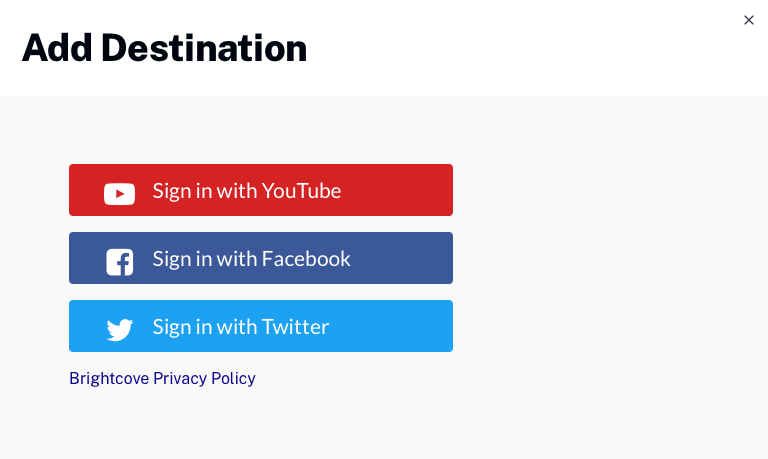
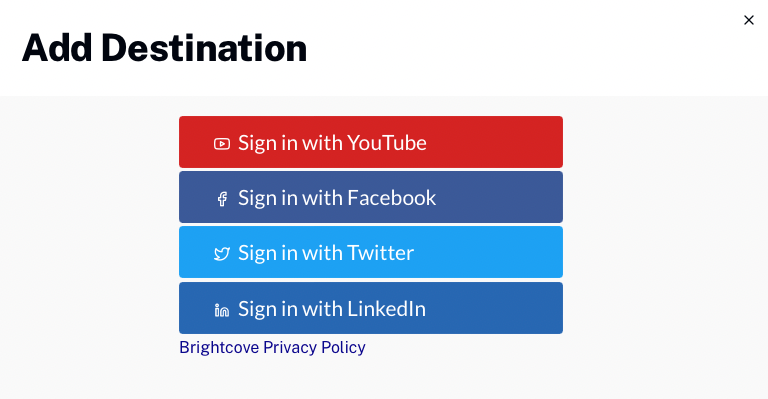
training folder work

Changed region(s): [[0.0625, 0.2707, 0.75, 0.9023], [0.0312, 0.0602, 0.4062, 0.1504], [0.9688, 0.0301, 1.0, 0.0602]]

diff --git a/_site/social/publishing-videos-social-media-platforms.html b/_site/social/publishing-videos-social-media-platforms.html
@@ -1696,8 +1696,7 @@ function doGTranslate(lang_pair) {if(lang_pair.value)lang_pair=lang_pair.value;i
 <article class="bcls-article">
   <h1>Publishing Videos to Social Media Platforms</h1>
   <summary>In this topic you will learn how to publish videos to social media using Brightcove Social.</summary>
-  <section class="bcls-section">
-    
+  <section class="bcls-section"> 
     <p>Brightcove Social allows you to easily publish videos in your Beacon account out to YouTube, Facebook and Twitter. Before you can publish videos, you must create publishing destinations for the social accounts you wish to publish videos to. For information on creating publishing destinations, see <a href="/social/creating-social-media-publishing-destinations.html">Creating Social Media Publishing Destinations</a>.</p>
     <p>Note that using Auto Sync and manually publishing videos using the Social module are independent operations. Auto Sync is not aware of which videos have been manually published using the Social module. If a video is tagged in a way that causes Auto Sync to publish it to one of your social destinations, it will do that regardless if that video has previously been manually published using the Social module.</p>
   </section>
@@ -1964,6 +1963,63 @@ function doGTranslate(lang_pair) {if(lang_pair.value)lang_pair=lang_pair.value;i
       <h3>Configuring the Post Info properties</h3>
       <p>Click on the <strong>Post Info</strong> link and enter the <strong>Tweet</strong> content. Note that @mentions will be converted to #hashtags when being sent to Twitter. For more information, see the blog post, <a href="https://www.brightcove.com/en/blog/2018/11/deprecation-twitter-mentions-brightcove-social">Deprecation of Twitter @mentions in Brightcove Social</a>.</p>
       <figure class="bcls-figure"><img class="bcls-image--no-border" alt="" src="/assets/images/s-social-img/node16344-twitter-tweet.png" /></figure>
+    </div>
+  </section>
+  <section class="bcls-section">
+    <h2 id="linkedin">Setting video properties for LinkedIn</h2>
+    <p>Videos that are up to 15 minutes long can be uploaded to LinkedIn. For information on LinkedIn video requirements, see <a href="https://www.linkedin.com/help/linkedin/answer/a527229/share-photos-or-videos?lang=en">the LinkedIn documentation</a>.When choosing a LinkedIn destination, the following video properties can be configured:</p>
+    <ul>
+      <li><a href="#ytthumb">Thumbnail Source</a></li>
+      <li><a href="#ytpostinfo">Post Info</a></li>
+      <li><a href="#ytcaptions">Captions</a></li>
+      <li><a href="#ytvisibility">Visibility</a></li>
+    </ul>
+    <aside class="bcls-aside bcls-aside--information"> Notes:
+      <ul>
+        <li><a href="creating-social-media-publishing-destinations.html#linkedin_defaults">Default video properties for LinkedIn</a> can be set by editing the destination.</li>
+        <li>Avoid special characters in the name and description of the video: using "&lt;" or "&gt;" are known to cause failure, but other special characters may cause problems as well.</li>
+      </ul>
+    </aside>
+    <div id="linkedinthumb" class="BCL-subsection">
+      <h3>Configuring the thumbnail source</h3>
+      <p>When posting to LinkedIn, the video thumbnail source can be set to:</p>
+      <ul>
+        <li><strong>Video Cloud</strong> - Use the Video Cloud thumbnail image as the YouTube thumbnail</li>
+        <li><strong>LinkedIn</strong> - LinkedIn will select a thumbnail</li>
+        <li><strong>Custom Image</strong> - Browse and select a custom thumbnail image to use</li>
+      </ul>
+      <figure class="bcls-figure"><img class="bcls-image--no-border" alt="" src="/assets/images/s-social-img/node16344-linkedin-thumb.png" /></figure>
+      <p>Checking <strong>Use for all destinations</strong> will use this thumbnail for all destinations currently being published to.</p>
+      <aside class="bcls-aside bcls-aside--information">Note: Updates to thumbnail images in Studio will not update the thumbnail image on the LinkedIn side.</aside>
+    </div>
+    <div id="linkedinpostinfo" class="BCL-subsection">
+      <h3>Configuring the Post Info properties</h3>
+      <p>Click on the <strong>Post Info</strong> link. The following LinkedIn video properties can be set:</p>
+      <ul>
+        <li><strong>Title</strong> - Title of the video (defaults to Beacon title). YouTube supports up to 100 characters.</li>
+        <li><strong>Description</strong> - Description of the video (defaults to Beacon short description). YouTube supports up to 5000 characters.</li>
+      </ul>
+      <figure class="bcls-figure"><img class="bcls-image--no-border" alt="" src="/assets/images/s-social-img/node16344-linkedin-post-info.png" /></figure>
+    </div>
+    <div id="linkedincaptions" class="BCL-subsection">
+      <h3>Configuring the Captions properties</h3>
+      <p>Click on the <strong>Captions</strong> link. Select the source for the captions:</p>
+      <ul>
+        <li><strong>Use Video Cloud captions</strong> - Uses the captions associated with the video. For information on working with captions, see <a href="/media/overview-adding-captions-video.html">Overview: Adding Captions to a Video</a>.</li>
+        <li><strong>No captions</strong> - No captions will be sent to LinkedIn</li>
+        <li><strong>Upload captions</strong> - Click <strong>Upload captions</strong> and browse and select a captions file. The captions file should be in .VTT or .SRT format. Select the caption <strong>Language</strong>, add a <strong>Label</strong> and select the <strong>Format</strong>. Click <strong>Add Caption File</strong>.</li>
+      </ul>
+      <figure class="bcls-figure"><img class="bcls-image--no-border" alt="" src="/assets/images/s-social-img/node16344-linkedin-captions-info.png" /></figure>
+    </div>
+    <aside class="bcls-aside bcls-aside--information">Videos with Closed Captions can be clipped via Social, but the resulting clipped video will not have captions. You will need to upload new captions to the clipped video, and Social will use those when publishing.</aside>
+    <div id="linkedinvisibility" class="BCL-subsection">
+      <h3>Configuring the Visibility properties</h3>
+      <p>Click on the <strong>Visibility</strong> link and select a visibility setting for the video. The following  settings are available:</p>
+      <ul>
+        <li><strong>PUBLIC</strong> - Anyone can view the video</li>
+        <li><strong>LOGGED IN</strong> - Anyone who is logged in  can view the video</li>
+      </ul>
+      <figure class="bcls-figure"><img class="bcls-image--no-border" alt="" src="/assets/images/s-social-img/node16344-linkedin-visibility-info.png" /></figure>
     </div>
   </section>
   <section class="bcls-section">

diff --git a/_site/social/creating-social-media-publishing-destinations.html b/_site/social/creating-social-media-publishing-destinations.html
@@ -1698,7 +1698,7 @@ function doGTranslate(lang_pair) {if(lang_pair.value)lang_pair=lang_pair.value;i
   <summary>In this topic you will learn how to create publishing destinations using Brightcove Social.</summary>
   <section class="bcls-section">
     
-    <p>A publishing destination is a social media account/page that you wish to publish Beacon videos to. Before you can publish videos to social media accounts using Brightcove Social, you have to create at least one destination. Destinations can be created to publish videos to YouTube, Facebook and Twitter.</p>
+    <p>A publishing destination is a social media account/page that you wish to publish Beacon videos to. Before you can publish videos to social media accounts using Brightcove Social, you have to create at least one destination. Destinations can be created to publish videos to YouTube, Facebook, Twitter and LinkedIn.</p>
   </section>
   <section class="bcls-section">
     <h2 id="youtube">Creating a YouTube destination</h2>
@@ -1951,6 +1951,62 @@ function doGTranslate(lang_pair) {if(lang_pair.value)lang_pair=lang_pair.value;i
       <li>Set a custom default Tweet</li>
     </ul>
   </section>
+<section class="bcls-section">
+    <h2 id="linkedin">Creating a LinkedIn destination</h2>
+    <p>Create a LinkedIn destination when you want to publish videos to LinkedIn. To create a LinkedIn destination, follow these steps.</p>
+    <ol class="bcls-tasklist-restart">
+      <li>Open the<strong> Social </strong>Module.</li>
+      <li>Click <strong>Destinations</strong> in the left navigation.</li>
+      <li>Click <span class="button-blue">Add Destination</span>.</li>
+      <li>Click<strong> Sign in with LinkedIn</strong>.</li>
+      <li>A dialog will open requesting you to log into your LinkedIn account. Enter your credentials and click <strong>Sign In</strong>.
+        <figure class="bcls-figure"><img class="bcls-image--no-border" alt="" src="/assets/images/s-social-img/node16345-auth-linkedin-dest.png" /></figure>
+      </li>
+      <li>A dialog will open confirming what Brightcove Social is allowed to do. Click <strong>Allow</strong>.
+        <figure class="bcls-figure"><img class="bcls-image--no-border" alt="" src="/assets/images/s-social-img/node16345-auth-linkedin-dest1.png" /></figure>
+      </li>
+      <li>Give the destination a unique, descriptive name. If you have multiple LinkedIn organizations, select the page to publish to using the dropdown list and then click <span class="button-blue">Add</span>.
+        <figure class="bcls-figure"><img class="bcls-image--no-border" alt="" src="/assets/images/s-social-img/node16345-name-linkedin-dest.png" /></figure>
+      </li>
+      <li>Basic information and the destination defaults will be displayed. Click  <span class="button-blue">Edit</span>  in the <strong>Basic info</strong> section to edit the destination name. See the <a href="#linkedin_defaults">Setting Linkedin defaults</a> section for information on configuring default values.
+        <figure class="bcls-figure"><img class="bcls-image--no-border" alt="" src="/assets/images/s-social-img/node16345-linkedin-dest-created.png" /></figure>
+      </li>
+      <li>Click <strong>Destinations</strong> in the left margin and confirm that the destination appears in the list of destinations. The value below the destination name is the destination id.
+        <figure class="bcls-figure"><img class="bcls-image--no-border" alt="" src="/assets/images/s-social-img/node16345-linkedin-dest-added.png" /></figure>
+      </li>
+    </ol>
+    <p>Click the destination name to edit the destination. Click the link in the Channel/Page column to open the LinkedIn page in another browser tab.</p>
+  </section>
+<section class="bcls-section">
+    <h2 id="linkedin_defaults">Setting LinkedIn defaults</h2>
+    <p>The destination default values will be used as the default video properties when <a href="/social/publishing-videos-social-media-platforms.html">publishing videos to social platforms</a>. To configure publishing defaults for LinkedIn destinations, click on the destination name and then click <span class="button-blue">Edit</span> in the <strong>Defaults for this destination</strong> section. The following LinkedIn video properties can be configured:</p>
+    <ul>
+      <li><a href="#linkedinpostinfo">Post Info</a></li>
+      <li><a href="#linkedinvisibility">Visibility</a></li>
+      <li><a href="#linkedincaptions">Captions</a></li>
+    </ul>
+    <div id="linkedinpostinfo" class="BCL-subsection">
+      <h3>Configuring the Post Info properties</h3>
+      <p>Click on the <strong>Post Info</strong> link. The following LinkedIn video properties can be set:</p>
+      <ul>
+        <li><strong>Commentary</strong> - Options to use the Video Cloud short or long description or to enter a default description to use</li>
+        <li><strong>Thumbnail Source</strong> - Options to use the Video Cloud thumbnail or the the LinkedIn thumbnail</li>
+      </ul>
+    </div>
+    <div id="linkedinvisibility" class="BCL-subsection">
+      <h3>Configuring the Visibility properties</h3>
+      <p>Click on the <strong>Visibility</strong> link and select a Visibility setting for the video. The following settings are available:</p>
+      <ul>
+        <li><strong>PUBLIC</strong> - Anyone can view the video</li>
+        <li><strong>LOGGED IN</strong> - Anyone who is logged in  can view the video   </li>
+      </ul>
+    </div>
+    <div id="linkedincaptions" class="BCL-subsection">
+      <h3>Configuring the Captions properties</h3>
+      <p>Click on the <strong>Captions</strong> link. Select <strong>Use Video Cloud captions</strong> to use the captions associated with the video or <strong>No captions</strong> to not use captions.</p>
+      <aside class="bcls-aside bcls-aside--information">Note: For information on working with captions in Video Cloud, see <a href="/media/overview-adding-captions-video.html">Overview: Adding Captions to a Video</a>.</aside>
+    </div>
+</section>
   <section class="bcls-section">
     <h2 id="delete">Deleting a destination</h2>
     <p>To delete a destination, follow these steps:</p>

diff --git a/_site/publish/choosing-correct-embed-code.html b/_site/publish/choosing-correct-embed-code.html
@@ -1703,6 +1703,7 @@ function doGTranslate(lang_pair) {if(lang_pair.value)lang_pair=lang_pair.value;i
     <figure class="bcls-figure"><img class="bcls-image--no-border" alt="" src="/assets/images/s-publish-img/node15622-pub-code-options.png" /></figure>
     <aside class="bcls-aside bcls-aside--information">Note: For information on working with responsive players, see the <a href="https://player.support.brightcove.com/styling/responsive-sizing-brightcove-player.html">Responsive Sizing for the Brightcove Player</a> developer document.</aside>
   </section>
+
   <section class="bcls-section">
     <h2 id="iframe">iframe embed code (Standard)</h2>
     <p>Typical iframe embed code will appear as follows:</p>
@@ -1718,7 +1719,9 @@ function doGTranslate(lang_pair) {if(lang_pair.value)lang_pair=lang_pair.value;i
       <li>The iframe eases use in social media apps or whenever the video will need to be used in an outside environment; for instance, Facebook will perceive the security threat is much less when the iframe is used versus putting the <code translate="No">&lt;video&gt;</code> tag and associated JavaScript on their site (which Facebook does not allow)</li>
     </ul>
     <aside class="bcls-aside bcls-aside--information">Note: If you are publishing a Campaign-enabled Brightcove Player, use the Advanced Embed (in-page) publishing code.  Using the Standard Embed (iframe) publishing code will not work as the plugin will be running inside of an iframe and therefore will be unable to access any parent page URL parameters and may not get the correct cookies.</aside>
+    <aside class="bcls-aside bcls-aside--information">Note: The iframe will be able to access the parent page's full URL as long as the parent page has the header <code translate="No">referrer-policy: no-referrer-when-downgrade</code>. This means that the header <code translate="No">referrer</code> will be sent to the iframe with the full parent page's URL because both protocols match.</aside>
   </section>
+
   <section class="bcls-section">
     <h2 id="inpage">In-Page embed code (Advanced)</h2>
     <p>Typical in-page embed code will appear as follows:</p>
@@ -1741,10 +1744,12 @@ function doGTranslate(lang_pair) {if(lang_pair.value)lang_pair=lang_pair.value;i
     <p>Even if your final implementation does not use the iframe embed&nbsp;code, you can still use the In-Page code with a plugin for your JavaScript and a separate file for your CSS. This encapsulates your logic so that you can easily use it in multiple players.</p>
     <aside class="bcls-aside bcls-aside--information">Note: If you selected the iframe implementation when publishing from Studio, you will see the option <code translate="No">allowfullscreen</code> added in the iframe. If you are ever manually placing a Brightcove Player, either the in-page embed or iframe implementation, in an iframe you should also include this option for proper fullscreen functionality. If for some reason you nest a player in multiple iframes, all iframes should have the option added.</aside>
   </section>
+
   <section class="bcls-section">
     <h2 id="recommend">Recommendation</h2>
     <p>It is considered a best practice to use the Standard (iframe)) implementation unless some application logic requires the use of the Advanced (in-page) code. If you are using the Audience module to track viewer engagement, the Advanced (in-page)) embed code must be used.</p>
   </section>
+
 </article>
 <!-- complete bootstrap layout -->
     </div>

diff --git a/_site/social/using-auto-sync-synchronize-videos-social-media-accounts.html b/_site/social/using-auto-sync-synchronize-videos-social-media-accounts.html
@@ -1696,8 +1696,7 @@ function doGTranslate(lang_pair) {if(lang_pair.value)lang_pair=lang_pair.value;i
 <article class="bcls-article">
   <h1>Using Auto Sync to Synchronize Videos to Social Media Accounts</h1>
   <summary></summary>
-  <section class="bcls-section">
-    
+  <section class="bcls-section"> 
     <p>Brightcove Social provides an Auto Sync feature which can be used to automatically synchronize videos to social media channels based upon the tags that are associated with a video.</p>
     <p>Before configuring Auto Sync, you should have some publishing destinations created. For information on creating publishing destinations, see <a href="/social/creating-social-media-publishing-destinations.html">Creating Social Media Publishing Destinations</a>.</p>
     <p>Note that using Auto Sync and manually publishing videos using the Social module are independent operations. Auto Sync is not aware of which videos have been manually published using the Social module. If a video is tagged in a way that causes Auto Sync to publish it to one of your social destinations, it will do that regardless if that video has previously been manually published using the Social module.</p>
@@ -1747,6 +1746,7 @@ function doGTranslate(lang_pair) {if(lang_pair.value)lang_pair=lang_pair.value;i
       <li><a href="#yt">YouTube</a></li>
       <li><a href="#fb">Facebook</a></li>
       <li><a href="#twitter">Twitter</a></li>
+      <li><a href="#linkedin">LinkedIn</a></li>
     </ul>
     <aside class="bcls-aside bcls-aside--information">Notes:
       <ul>
@@ -1821,6 +1821,28 @@ function doGTranslate(lang_pair) {if(lang_pair.value)lang_pair=lang_pair.value;i
         <li>Click <span class="button-blue">Next</span>.</li>
         <li>Confirm the Auto Sync settings and then click <span class="button-blue">Finish</span>.
           <figure class="bcls-figure"><img class="bcls-image--no-border" alt="" src="/assets/images/s-social-img/node16642-twitter-confirm.png" /></figure>
+        </li>
+      </ol>
+    </div>
+    <div id="linkedin" class="BCL-subsection">
+      <h3>Configuring LinkedIn rules</h3>
+      <ol class="bcls-tasklist-restart">
+        <li>Select what happens when a video is untagged or deleted from Beacon:
+          <ul>
+            <li><strong>Delete distributed video on LinkedIn</strong> - The video will be removed from LinkedIn</li>
+            <li><strong>No action</strong> - Nothing happens to the LinkedIn video</li>
+          </ul>
+        </li>
+        <li>Select what happens when the video metadata is changed:
+          <ul>
+            <li><strong>Update video metadata on LinkedIn</strong> - Changes to video metadata on the Beacon side will be synchronized to LinkedIn</li>
+            <li><strong>No action</strong> - No action is taken </li>
+          </ul>
+          <figure class="bcls-figure"><img class="bcls-image--no-border" alt="" src="/assets/images/s-social-img/node16642-linkedin-rules.png" /></figure>
+        </li>
+        <li>Click <span class="button-blue">Next</span>.</li>
+        <li>Confirm the Auto Sync settings and then click <span class="button-blue">Finish</span>.
+          <figure class="bcls-figure"><img class="bcls-image--no-border" alt="" src="/assets/images/s-social-img/node16642-linkedin-confirm.png" /></figure>
         </li>
       </ol>
     </div>

diff --git a/_site/monetization/general/index.html b/_site/monetization/general/index.html
@@ -1785,7 +1785,7 @@ function doGTranslate(lang_pair) {if(lang_pair.value)lang_pair=lang_pair.value;i
 
 <hr>
 <div class="last-updated">
-  Page last updated on 15 Sep 2021
+  Page last updated on 31 May 2022
 </div>
 
 

diff --git a/_site/monetization/general/monetization-options.html b/_site/monetization/general/monetization-options.html
@@ -1857,7 +1857,7 @@ function doGTranslate(lang_pair) {if(lang_pair.value)lang_pair=lang_pair.value;i
 
 <hr>
 <div class="last-updated">
-  Page last updated on 15 Sep 2021
+  Page last updated on 31 May 2022
 </div>
 
 

diff --git a/_site/monetization/general/resources.html b/_site/monetization/general/resources.html
@@ -1784,7 +1784,7 @@ function doGTranslate(lang_pair) {if(lang_pair.value)lang_pair=lang_pair.value;i
 
 <hr>
 <div class="last-updated">
-  Page last updated on 15 Sep 2021
+  Page last updated on 31 May 2022
 </div>
 
 
